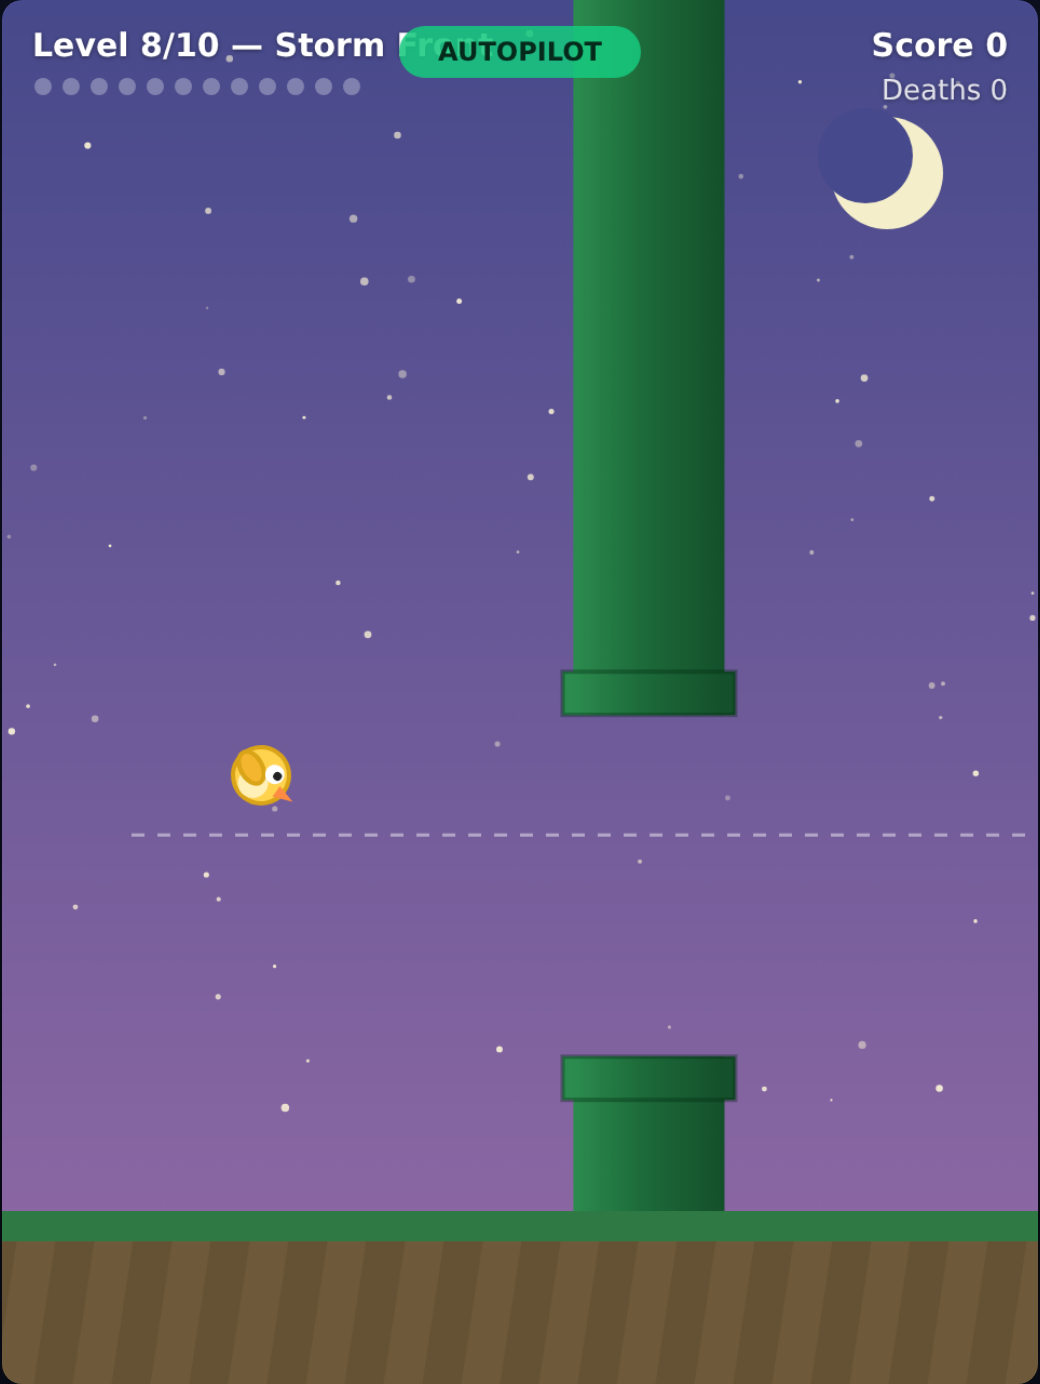
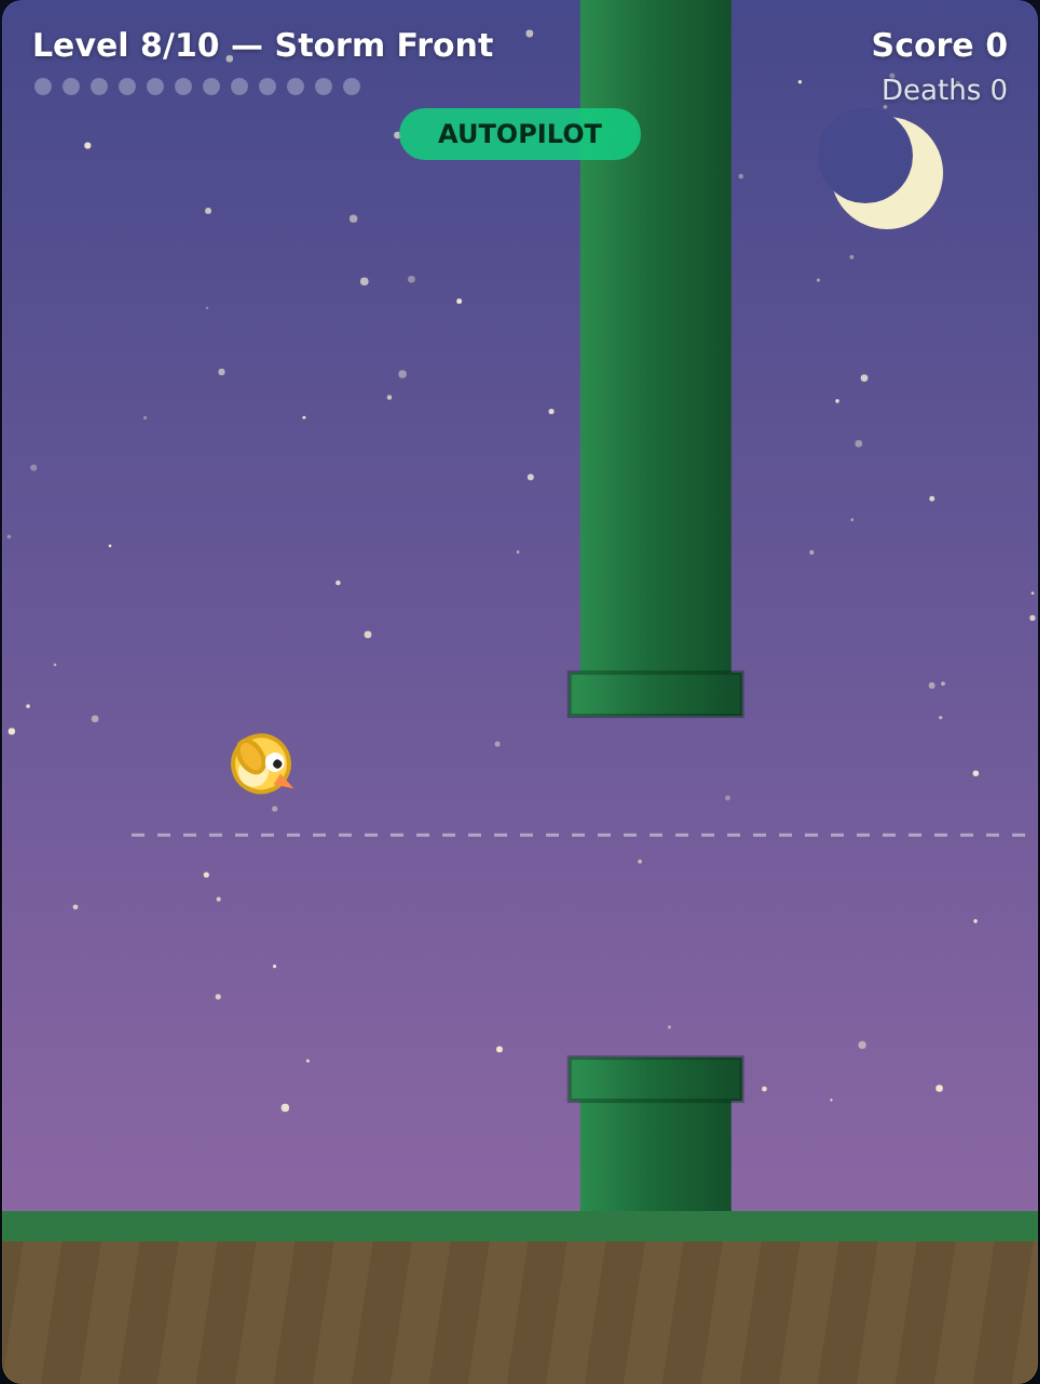
screenshots

diff --git a/src/client.ts b/src/client.ts
@@ -375,13 +375,13 @@ function drawHud(): void {
     ctx.globalAlpha = pulse;
     ctx.fillStyle = "#17c97e";
     ctx.beginPath();
-    ctx.roundRect(WIDTH / 2 - 56, 12, 112, 24, 12);
+    ctx.roundRect(WIDTH / 2 - 56, 50, 112, 24, 12);
     ctx.fill();
     ctx.globalAlpha = 1;
     ctx.font = "700 12px system-ui, sans-serif";
     ctx.textAlign = "center";
     ctx.fillStyle = "#05291a";
-    ctx.fillText("AUTOPILOT", WIDTH / 2, 28);
+    ctx.fillText("AUTOPILOT", WIDTH / 2, 66);
   }
 }
 

diff --git a/README.md b/README.md
@@ -4,6 +4,17 @@ A Flappy-Bird-style game built from scratch with [Bun](https://bun.sh), TypeScri
 canvas — no frameworks, no runtime dependencies. Ten handcrafted levels and a built-in
 autopilot bot that can clear the whole campaign (proven by the test suite).
 
+<p align="center">
+  <img src="screenshots/menu.png" width="32%" alt="Main menu" />
+  <img src="screenshots/level-01-first-flight.png" width="32%" alt="Level 1 — First Flight" />
+  <img src="screenshots/level-04-tight-squeeze.png" width="32%" alt="Level 4 — Tight Squeeze" />
+</p>
+<p align="center">
+  <img src="screenshots/level-06-wavy-air.png" width="32%" alt="Level 6 — Wavy Air, oscillating gaps" />
+  <img src="screenshots/level-08-storm-front.png" width="32%" alt="Level 8 — Storm Front, night, autopilot flying" />
+  <img src="screenshots/level-10-impossible-sky.png" width="32%" alt="Level 10 — Impossible Sky, autopilot flying" />
+</p>
+
 ## Run it
 
 ```sh
